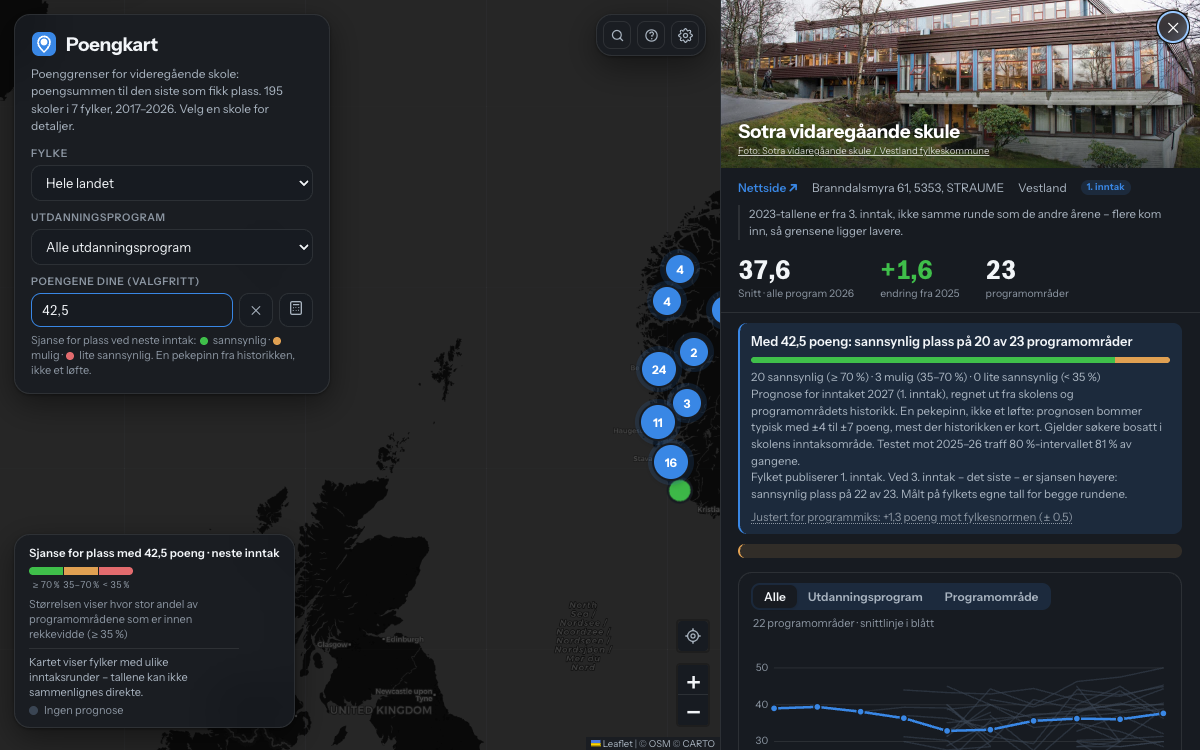
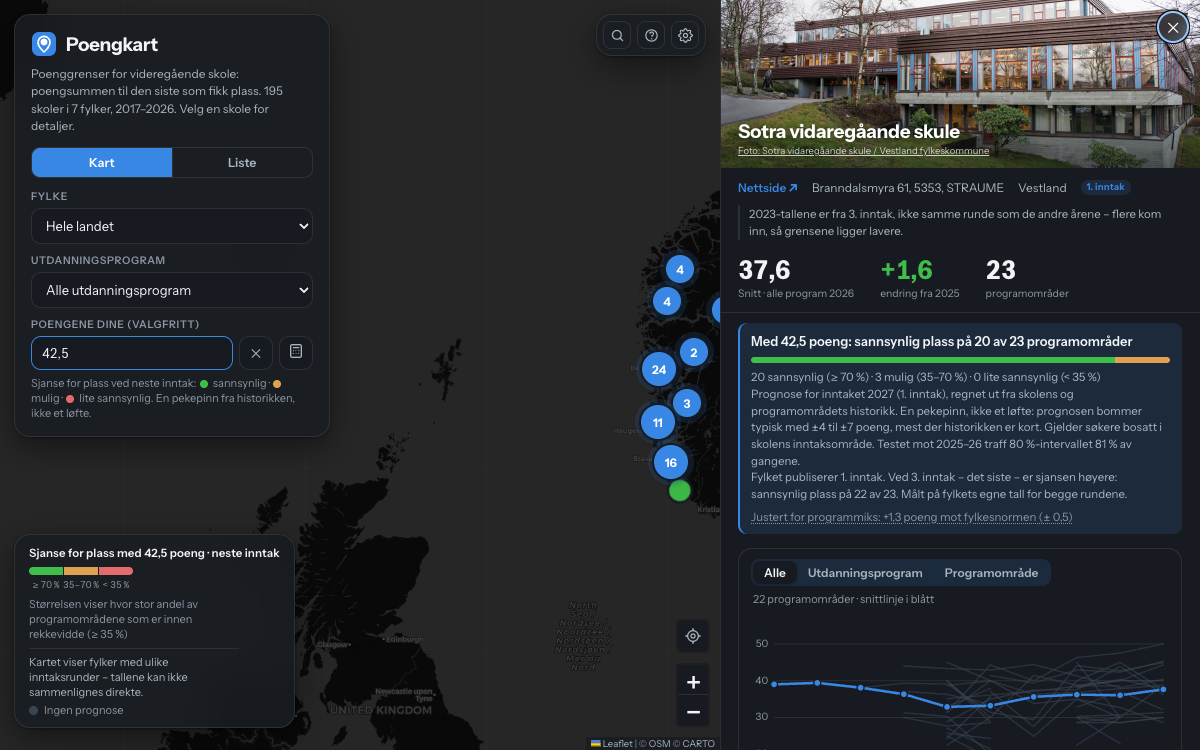
Bring the README up to the app it describes
The intro now owns the list view, and one paragraph covers the rest
of this week's furniture: search, the grade calculator, shareable
school links, geolocation and the settings. Both screenshots retaken
with the Kart/Liste toggle in frame; the GitHub description updated
from 191 schools to what the repo actually holds.

diff --git a/README.md b/README.md
@@ -3,10 +3,11 @@
 **https://poengkart-no.vercel.app**
 
 Admission point thresholds (*poenggrenser*) for Norwegian upper secondary
-schools, on a map. A threshold is the score of the last applicant who got a
-place — a grade average × 10 — so it says what it took to get in, not what the
-school requires. 195 schools across the seven counties that publish these
-figures, up to ten years of history, in Norwegian and English.
+schools, on a map — and as a sortable, rankable list. A threshold is the score
+of the last applicant who got a place — a grade average × 10 — so it says what
+it took to get in, not what the school requires. 195 schools across the seven
+counties that publish these figures, up to ten years of history, in Norwegian
+and English.
 
 ![The map: 195 schools across southern and central Norway, clustered and coloured by admission threshold](docs/map.png)
 
@@ -15,9 +16,17 @@ figures, up to ten years of history, in Norwegian and English.
 Type in your own points and the map recolours by your chance of a place at
 the next intake — green likely, amber possible, red unlikely — per school and
 per programme; press + on any programme to collect your choices and see
-whether the list holds up. The chance comes from a model fitted on the whole
+whether the list holds up. Don't know your points? A small calculator turns
+vitnemål grades into them. The chance comes from a model fitted on the whole
 history and checked by forecasting each past year from the years before it;
-the panel says how often that check was right. [docs/model.md](docs/model.md)
+the panel says how often that check was right.
+
+The rest of the furniture: search finds any school by name (⌘K or `/`), the
+Kart ⇄ Liste toggle swaps the map for a sortable table of the same filtered
+figures, every open school is a shareable link (`#s=Fylke/Skolenavn`), a
+locate button centres the map on you (the position never leaves the browser),
+and settings hold language, light/dark theme, text size and a
+colour-blind-friendly palette. [docs/model.md](docs/model.md)
 has the model, the backtest and what it cannot know; the
 [technical report](docs/technical-report.md) is the formal write-up of the
 whole thing — data semantics, model, validation, findings — also published at
